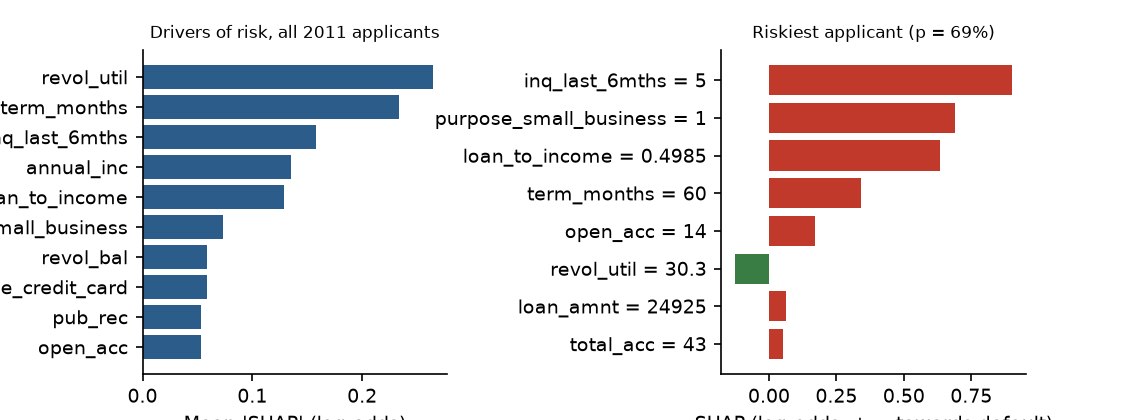
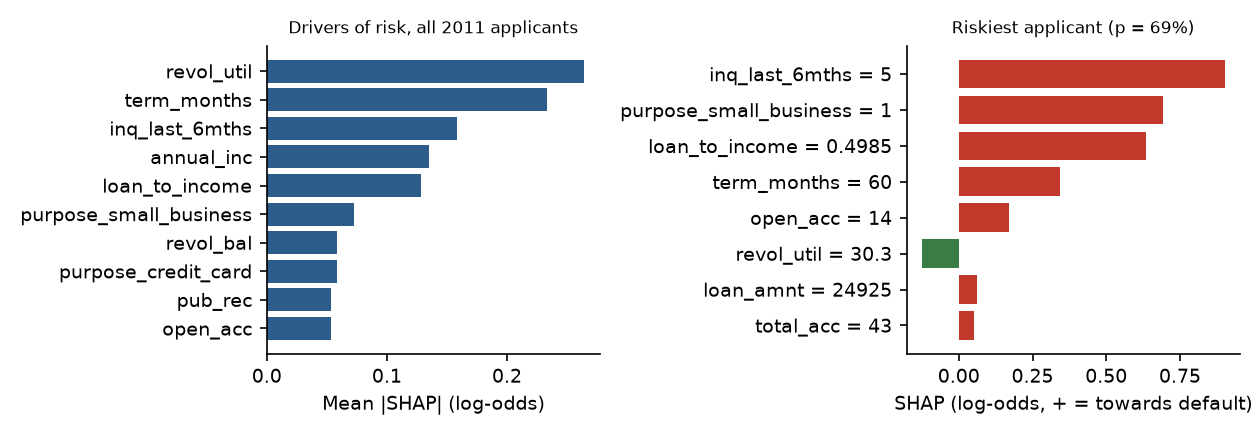
Lending Club: unclipped SHAP figure, exact riskiest-applicant probability, runtime note

diff --git a/predictive-ml/lending-club-case/report/report.tex b/predictive-ml/lending-club-case/report/report.tex
@@ -107,7 +107,7 @@ The default-vs-approval curve (\texttt{q7\_default\_vs\_approval.png}) falls as 
 cleaner, but every extra decline also turns away good borrowers, and the interest income with them.
 
 \q{Q8. SHAP.} \hl{Drivers: \texttt{revol\_util}, term, inquiries, income, loan-to-income.} The riskiest applicant
-(predicted 70\%): \hl{5 inquiries in six months, a small-business loan of half their income, 60 months.} A lender needs
+(predicted 69.5\%): \hl{5 inquiries in six months, a small-business loan of half their income, 60 months.} A lender needs
 reasons per applicant: adverse-action notices, fair-lending audits and a credit officer's trust.
 
 \q{Q9. Pricing.} Predicting \texttt{int\_rate}: \hl{XGBoost MAE 2.13 pts, RMSE 2.59; RF 2.29 / 2.78; naive mean 3.40 /

diff --git a/predictive-ml/lending-club-case/src/lending.py b/predictive-ml/lending-club-case/src/lending.py
@@ -315,7 +315,7 @@ pd.DataFrame({"value": X_te.iloc[worst][contrib.index], "shap": contrib}).to_csv
 print(f"   Riskiest test applicant: predicted default {p_xgb[worst]:.1%}; top reasons:",
       ", ".join(f"{k}={X_te.iloc[worst][k]:g} ({v:+.2f})" for k, v in contrib.head(4).items()))
 
-fig, axes = plt.subplots(1, 2, figsize=(7.6, 2.8), gridspec_kw={"wspace": 0.9})
+fig, axes = plt.subplots(1, 2, figsize=(8.4, 2.9))
 top = mean_abs.head(10)[::-1]
 axes[0].barh(top.index, top.values, color=BLUE)
 axes[0].set_xlabel("Mean |SHAP| (log-odds)")

diff --git a/predictive-ml/lending-club-case/README.md b/predictive-ml/lending-club-case/README.md
@@ -34,7 +34,7 @@ tree that also sees the repayment columns gets 0.5%, which is leakage, not skill
 - Smaller learning rates need more trees for a slightly better result: 20 trees at 0.3 (12.1%), 99 at 0.1 (11.8%),
   343 at 0.03 (11.7%).
 - SHAP drivers: revolving utilisation, term, credit inquiries, income and loan-to-income. The riskiest 2011 applicant
-  (predicted 70% default) had 5 inquiries in six months, a small-business loan worth half their income, on 60 months.
+  (predicted 69.5% default) had 5 inquiries in six months, a small-business loan worth half their income, on 60 months.
 - Reverse-engineering Lending Club's interest rate from application data: XGBoost MAE 2.13 points against 3.40 for the
   training mean. Not perfectly, because the grade draws on more than these columns and because the rate grid moved
   over time (average rate 11.79% in the training years, 12.08% in 2011).
